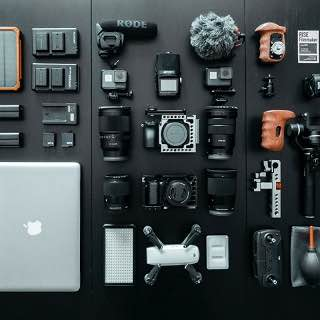
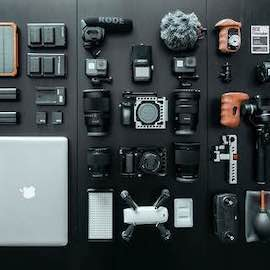
Resizing images

diff --git a/index.html b/index.html
@@ -163,7 +163,7 @@
 					</div>
 					<div class="row tight-width-whitespace portfolio-row">
 						<div class="col-sm-6">
-							<a href="#" data-lightbox="img/1.webp" data-gallery-id="gallery-1" data-caption="Refonte d'un site web pour un journal local" data-frame="snapshot-lb"><img src="img/1.webp" alt="paris web design logo agence web meilleure agence et refonte site web journal" class="img-responsive portfolio-thumb" /></a>
+							<a href="#" data-lightbox="img/1.jpg" data-gallery-id="gallery-1" data-caption="Refonte d'un site web pour un journal local" data-frame="snapshot-lb"><img src="img/1.jpg" alt="paris web design logo agence web meilleure agence et refonte site web journal" class="img-responsive portfolio-thumb" /></a>
 							<h3 class="mg-md text-center">
 								Refonte d'un site web pour un journal local
 							</h3>
@@ -172,7 +172,7 @@
 							</p>
 						</div>
 						<div class="col-sm-6">
-							<a href="#" data-lightbox="img/2.webp" data-gallery-id="gallery-1" data-caption="Création d'un site web pour photographes" data-frame="snapshot-lb"><img src="img/2.webp" class="img-responsive portfolio-thumb" alt="paris web design logo agence web meilleure agence, Création d'un site web pour photographes" /></a>
+							<a href="#" data-lightbox="img/2.jpg" data-gallery-id="gallery-1" data-caption="Création d'un site web pour photographes" data-frame="snapshot-lb"><img src="img/2.jpg" class="img-responsive portfolio-thumb" alt="paris web design logo agence web meilleure agence, Création d'un site web pour photographes" /></a>
 							<h3 class="mg-md text-center">
 								Création d'un site web pour photographes
 							</h3>
@@ -183,7 +183,7 @@
 					</div>
 					<div class="row tight-width-whitespace portfolio-row">
 						<div class="col-sm-6">
-							<a href="#" data-lightbox="img/3.webp" data-gallery-id="gallery-1" data-caption="Création d'un site internet pour un voyageur" data-frame="snapshot-lb"><img src="img/3.webp" class="img-responsive portfolio-thumb" alt="paris web design logo agence web meilleure agence, Création d'un site web pour voyageur"/></a>
+							<a href="#" data-lightbox="img/3.jpg" data-gallery-id="gallery-1" data-caption="Création d'un site internet pour un voyageur" data-frame="snapshot-lb"><img src="img/3.jpg" class="img-responsive portfolio-thumb" alt="paris web design logo agence web meilleure agence, Création d'un site web pour voyageur"/></a>
 							<h3 class="mg-md text-center">
 								Création d'un site internet pour un voyageur
 							</h3>
@@ -192,7 +192,7 @@
 							</p>
 						</div>
 						<div class="col-sm-6">
-							<a href="#" data-lightbox="img/4.webp" data-gallery-id="gallery-1" data-caption="Conception d'un site pour une agence de mariage" data-frame="snapshot-lb"><img src="img/4.webp" class="img-responsive portfolio-thumb" alt="paris web design logo agence web meilleure agence, Création d'un site web pour agence de mariage" /></a>
+							<a href="#" data-lightbox="img/4.jpg" data-gallery-id="gallery-1" data-caption="Conception d'un site pour une agence de mariage" data-frame="snapshot-lb"><img src="img/4.jpg" class="img-responsive portfolio-thumb" alt="paris web design logo agence web meilleure agence, Création d'un site web pour agence de mariage" /></a>
 							<h3 class="mg-md text-center">
 								Conception d'un site pour une agence de mariage
 							</h3>
